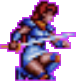
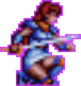
Added crouching ability

diff --git a/js/main.js b/js/main.js
@@ -43,10 +43,10 @@ function create() {
 
 
     // Player
-    player = this.physics.add.sprite(100, 300);
+    player = this.physics.add.sprite(100, 300, 'lena12');
     player.setBounce(0.2);
     player.setCollideWorldBounds(true);
-    this.physics.add.collider(player, platforms);
+    this.physics.add.collider(platforms, player);
 
 
     // Player animations
@@ -81,7 +81,7 @@ function create() {
     });
 
     this.anims.create({
-        key: 'kneel',
+        key: 'crouch',
         frames: [
             { key: 'lena1' },
         ],
@@ -102,36 +102,42 @@ function create() {
 
 }
 
+let crouching = false; // Add this line outside of your update function to track crouching state across updates
+
 function update() {
+    this.physics.add.collider(platforms, player);
 
     if (cursors.left.isDown) {
         player.setVelocityX(-160); // Move left
         if (player.body.touching.down) {
-        player.anims.play('movement', true);
+            player.anims.play('movement', true);
         }
         player.setScale(-1, 1); // Flip sprite to face left
     } else if (cursors.right.isDown) {
         player.setVelocityX(160); // Move right
         if (player.body.touching.down) {
-        player.anims.play('movement', true); // Reuse 'left' animation for moving right
+            player.anims.play('movement', true); // Reuse 'left' animation for moving right
         }
         player.setScale(1, 1); // Flip sprite back to face right
     } else if (cursors.up.isDown && player.body.touching.down) {
         player.setVelocityY(-330); // Jump
         player.anims.play('jump', true);
     } else if (cursors.down.isDown && player.body.touching.down) {
-        player.anims.play('kneel', true);
-    }
-    // else if (player.body.velocity.y > 0) {
-    //     player.anims.play('fall', true);
-    // }
-    
-    else {
-        player.setVelocityX(0); // Stop
-        if (player.body.touching.down) {
-        player.anims.play('idle', true);
+        if (!crouching) {
+            crouching = true;
+        }
+        player.anims.play('crouch', true);
+        player.body.setSize(81, 86, true);
+    } else {
+        player.setVelocityX(0);
+
+        if (player.body.touching.down && !cursors.down.isDown) {
+            if (crouching) {
+                player.y -= 41;
+                crouching = false;
+            }
+            player.body.setSize(81, 127, true);
+            player.anims.play('idle', true);
         }
     }
-    
 }
-    
